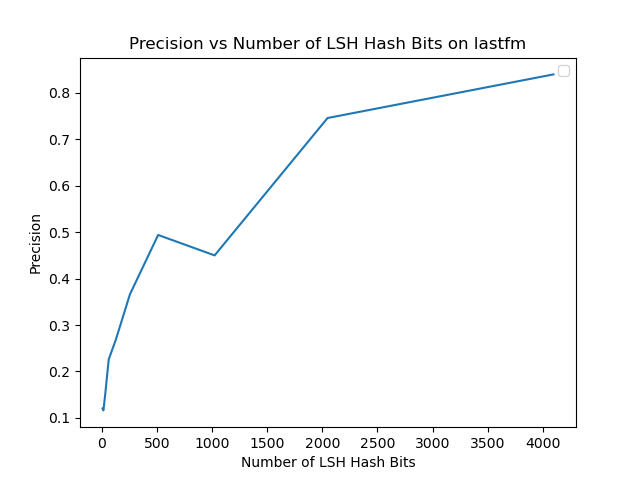
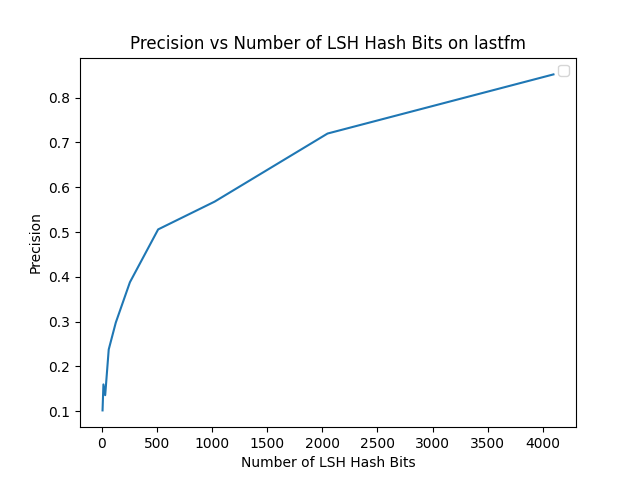
experiments done

diff --git a/src/main.py b/src/main.py
@@ -4,9 +4,22 @@ from scipy import sparse
 from datetime import datetime
 import matplotlib.pyplot as plt
 import torch
-import os
+import caboose
+import pandas as pd
+import util
 
-BASE_DIR = os.path.dirname(os.path.abspath(__file__))
+class Timer():
+    """
+    Timer class. start() to reset timer, measure() to stop and get time elapsed
+    """
+    def __init__(self):
+        self.current = datetime.now()
+
+    def start(self):
+        self.current = datetime.now()
+
+    def measure(self) -> int:
+        return (datetime.now() - self.current).total_seconds() * 1000
 
 class LSH:
     def __init__(self, num_bits, dim, device='cpu'):
@@ -23,7 +36,6 @@ class LSH:
         self.data = None
         self.hashed = None
         self.removed_rows = set()
-        self.started_time = datetime.now()
 
     def hash(self, data):
         """
@@ -100,8 +112,6 @@ class LSH:
         cosines = torch.nn.functional.cosine_similarity(query, self.data)
         cosines[list(self.removed_rows)] = -torch.inf
         return torch.topk(cosines, k).indices
-    
-    ########## UTILITY FUNCTIONS ##########
 
     def stats(self, exact_idxs, lsh_idxs):
         """
@@ -118,31 +128,52 @@ class LSH:
         f1 = 2 * (precision * recall) / (precision + recall) \
             if (precision + recall) > 0 else 0
         return precision, recall, f1
-    
-    def timer_start(self):
-        """
-        reset timer to current
-        """
-        self.started_time = datetime.now()
 
-    def timer_measure(self) -> int:
-        """
-        Returns:
-            elapsed time in ms
-        """
-        return (datetime.now() - self.started_time).total_seconds() * 1000
+def csr_random_nonzero(data):
+    row_indices, col_indices = data.nonzero()
+    rand_idx = np.random.choice(data.nnz)
 
-def experiment(file, num_bits, device):
-    path = '../data/' + file + '.npy'
+    row = row_indices[rand_idx]
+    col = col_indices[rand_idx]
+    return row, col
 
-    data = torch.tensor(np.load(path), dtype=torch.float32).to(device)
+def caboose_experiment(file, num_trials=10):
+    path = '../data/' + file + '.npz'
+    data = sparse.load_npz(path)
+    n, d = data.shape
+
+    index_time = search_time = unlearn_time = 0
+
+    for iter in range(num_trials):
+        timer = Timer()
+        index = caboose.Index(n, d, data.indptr, data.indices, data.data, 50)
+        index_time += timer.measure()
+
+        timer.start()
+        index.topk(int(np.random.random() * n))
+        search_time += timer.measure()
+
+        r, c = csr_random_nonzero(data)
+        timer.start()
+        index.forget(r, c)
+        unlearn_time += timer.measure()
+
+    index_time /= num_trials
+    search_time /= num_trials
+    unlearn_time /= num_trials
+
+    return index_time, search_time, unlearn_time
+
+def experiment(data, num_bits, device):
+    data = torch.tensor(data, dtype=torch.float32).to(device)
     data = torch.nn.functional.normalize(data)
 
+    timer = Timer()
     lsh = LSH(num_bits, data.shape[1], device)
     
-    lsh.timer_start()
+    timer.start()
     lsh.index(data)
-    index_time = lsh.timer_measure()
+    index_time = timer.measure()
 
     r = int(np.random.random() * data.shape[0])
     c = int(np.random.random() * data.shape[1])
@@ -150,19 +181,22 @@ def experiment(file, num_bits, device):
     query = data[r]
     exact = lsh.exact_search(query)
 
-    lsh.timer_start()
+    timer.start()
     approx = lsh.search(query, k=50)
-    search_time = lsh.timer_measure()
+    search_time = timer.measure()
 
-    lsh.timer_start()
+    timer.start()
     lsh.unlearn(r, c, 0)
-    unlearn_time = lsh.timer_measure()
+    unlearn_time = timer.measure()
 
     precision, _, _ = lsh.stats(exact, approx)
 
     return round(precision, 4), index_time, search_time, unlearn_time
 
 def experiment_num_bits(dataset, num_trials=10):
+    path = '../data/' + dataset + '.npy'
+    data = np.load(path)
+
     nbits = [8, 16, 32, 64, 128, 256, 512, 1024, 2048, 4096]
     precisions = []
     index_times = []
@@ -175,7 +209,7 @@ def experiment_num_bits(dataset, num_trials=10):
         avg_stats = np.zeros(4)
         for iter in range(num_trials):
             print('Iter:', iter)
-            avg_stats += experiment(dataset, nbit, 'mps')
+            avg_stats += experiment(data, nbit, 'mps')
         avg_stats /= num_trials
 
         precisions.append(avg_stats[0])
@@ -204,12 +238,56 @@ def experiment_num_bits(dataset, num_trials=10):
     # plt.legend()
     # plt.savefig('../results/final_precision_' + dataset + '.png')
 
-if __name__ == "__main__":
-    # precision, index_time, search_time, unlearn_time = experiment('lastfm', 1024, 'mps')
+def gen_runtime_graphs():
+    # index, search, unlearn
+    # 0.64, 0.77, 0.59, 0.57
+    # 2048 bits
+    lastfm_caboose = [89.7826, 0.0191, 0.6436]
+    lastfm_cpu = [6.912131e+02, 3.480790e+01, 3.151930e+01]
+    lastfm_mps = [1.1045, 2.5019, 0.2714]
 
+    movie_caboose = [36741.9109, 0.0207, 19.8799]
+    movie_cpu = [3.0132196e+03, 7.9627500e+01, 2.2448500e+00]
+    movie_mps = [16.1939, 58.7286,  0.429 ]
+
+    # Grouping data
+    labels = ['First Element', 'Second Element', 'Third Element']
+
+    # Create DataFrame
+    data = {
+        'Caboose': [round(val, 2) for val in lastfm_caboose],
+        'CPU': [round(val, 2) for val in lastfm_cpu],
+        'MPS': [round(val, 2) for val in lastfm_mps]
+    }
+
+    df = pd.DataFrame(data, index=labels)
+
+    # Display table
+    print(df)
+
+if __name__ == "__main__":
+    # gen_runtime_graphs()
+
+    # path = '../data/movie.npy'
+    # data = np.load(path)
+
+    # avg_stats = np.zeros(4)
+
+    # for iter in range(20):
+    #     print(iter)
+    #     avg_stats += experiment(data, 2048, 'mps')
+
+    # avg_stats /= 20
+    # print(avg_stats)
+
+    # precision, index_time, search_time, unlearn_time = experiment(data, 2048, 'mps')
+    
     # print(f"Precision: {precision:.4f}")
     # print('Index Time:', index_time)
     # print('Search Time:', search_time)
     # print('Unlearn Time:', search_time)
 
-    experiment_num_bits('lastfm')
+    experiment_num_bits('movie')
+
+    # index_time, search_time, unlearn_time = caboose_experiment('movie')
+    # print(index_time, search_time, unlearn_time)
